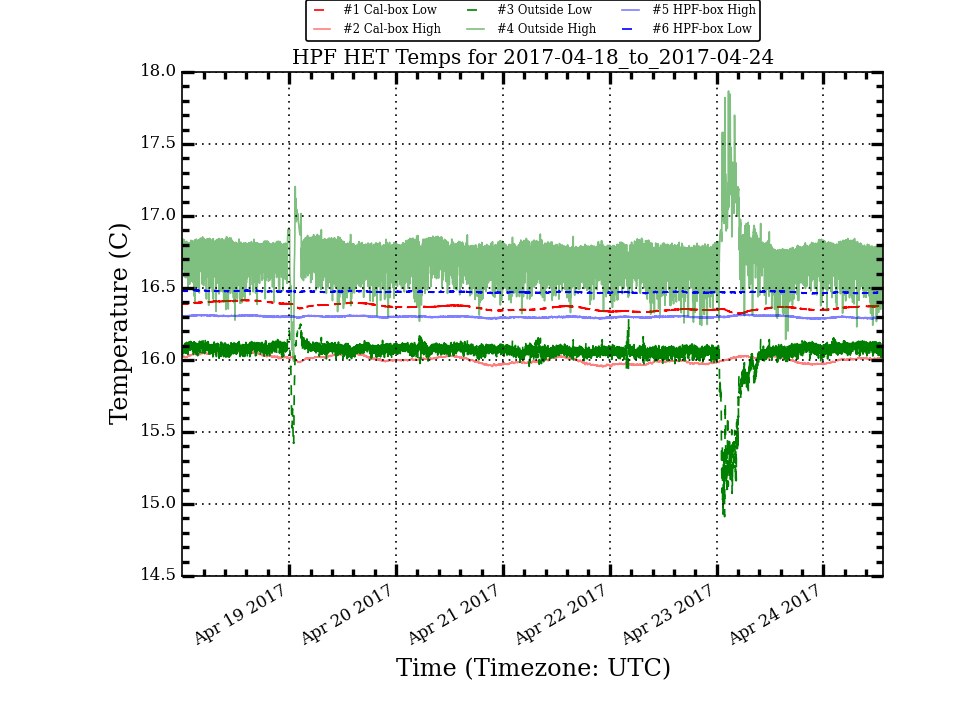
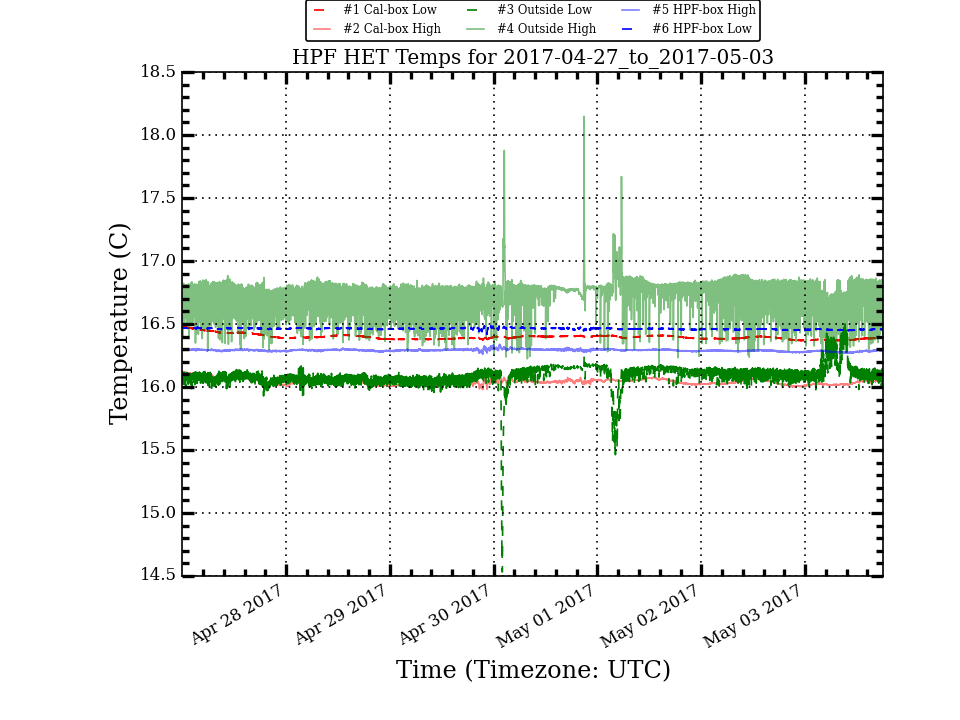
Update HPF Temp Plots

diff --git a/research/hpf_temps/plots/LakeShoreLogTotal_week_stats.html b/research/hpf_temps/plots/LakeShoreLogTotal_week_stats.html
@@ -10,56 +10,56 @@
  </TR>
  <TR>
   <TD>Cal_Low</TD>
-  <TD>16.367</TD>
-  <TD>0.022</TD>
-  <TD>16.367</TD>
-  <TD>16.416</TD>
-  <TD>16.322</TD>
-  <TD>0.094</TD>
+  <TD>16.397</TD>
+  <TD>0.019</TD>
+  <TD>16.394</TD>
+  <TD>16.479</TD>
+  <TD>16.369</TD>
+  <TD>0.110</TD>
  </TR>
  <TR>
   <TD>Cal_High</TD>
-  <TD>16.005</TD>
-  <TD>0.026</TD>
-  <TD>16.005</TD>
-  <TD>16.069</TD>
-  <TD>15.953</TD>
-  <TD>0.116</TD>
+  <TD>16.042</TD>
+  <TD>0.022</TD>
+  <TD>16.040</TD>
+  <TD>16.119</TD>
+  <TD>15.979</TD>
+  <TD>0.140</TD>
  </TR>
  <TR>
   <TD>Out_Low</TD>
-  <TD>16.047</TD>
-  <TD>0.135</TD>
-  <TD>16.072</TD>
-  <TD>16.291</TD>
-  <TD>14.912</TD>
-  <TD>1.379</TD>
+  <TD>16.093</TD>
+  <TD>0.097</TD>
+  <TD>16.095</TD>
+  <TD>16.506</TD>
+  <TD>14.532</TD>
+  <TD>1.974</TD>
  </TR>
  <TR>
   <TD>Out_High</TD>
-  <TD>16.721</TD>
-  <TD>0.134</TD>
-  <TD>16.731</TD>
-  <TD>17.868</TD>
-  <TD>15.990</TD>
-  <TD>1.878</TD>
+  <TD>16.732</TD>
+  <TD>0.116</TD>
+  <TD>16.763</TD>
+  <TD>18.148</TD>
+  <TD>16.128</TD>
+  <TD>2.020</TD>
  </TR>
  <TR>
   <TD>HPF_High</TD>
-  <TD>16.300</TD>
-  <TD>0.006</TD>
-  <TD>16.300</TD>
-  <TD>16.318</TD>
-  <TD>16.285</TD>
-  <TD>0.033</TD>
+  <TD>16.291</TD>
+  <TD>0.008</TD>
+  <TD>16.291</TD>
+  <TD>16.338</TD>
+  <TD>16.259</TD>
+  <TD>0.079</TD>
  </TR>
  <TR>
   <TD>HPF_Low</TD>
-  <TD>16.472</TD>
-  <TD>0.005</TD>
-  <TD>16.472</TD>
-  <TD>16.485</TD>
-  <TD>16.460</TD>
-  <TD>0.025</TD>
+  <TD>16.462</TD>
+  <TD>0.006</TD>
+  <TD>16.462</TD>
+  <TD>16.491</TD>
+  <TD>16.414</TD>
+  <TD>0.077</TD>
  </TR>
 </TABLE>

diff --git a/research/hpf_temps/plots/LakeShoreLogTotal_month_stats.html b/research/hpf_temps/plots/LakeShoreLogTotal_month_stats.html
@@ -10,56 +10,56 @@
  </TR>
  <TR>
   <TD>Cal_Low</TD>
-  <TD>16.403</TD>
-  <TD>0.027</TD>
-  <TD>16.409</TD>
-  <TD>16.459</TD>
+  <TD>16.407</TD>
+  <TD>0.050</TD>
+  <TD>16.405</TD>
+  <TD>16.769</TD>
   <TD>16.322</TD>
-  <TD>0.137</TD>
+  <TD>0.447</TD>
  </TR>
  <TR>
   <TD>Cal_High</TD>
+  <TD>16.053</TD>
+  <TD>0.081</TD>
   <TD>16.049</TD>
-  <TD>0.032</TD>
-  <TD>16.055</TD>
-  <TD>16.139</TD>
-  <TD>15.940</TD>
-  <TD>0.199</TD>
+  <TD>17.049</TD>
+  <TD>15.953</TD>
+  <TD>1.096</TD>
  </TR>
  <TR>
   <TD>Out_Low</TD>
   <TD>16.098</TD>
-  <TD>0.126</TD>
-  <TD>16.112</TD>
-  <TD>16.291</TD>
-  <TD>14.629</TD>
-  <TD>1.662</TD>
+  <TD>0.089</TD>
+  <TD>16.102</TD>
+  <TD>16.506</TD>
+  <TD>14.532</TD>
+  <TD>1.974</TD>
  </TR>
  <TR>
   <TD>Out_High</TD>
-  <TD>16.757</TD>
-  <TD>0.129</TD>
-  <TD>16.777</TD>
-  <TD>18.539</TD>
-  <TD>15.982</TD>
-  <TD>2.557</TD>
+  <TD>16.733</TD>
+  <TD>0.116</TD>
+  <TD>16.758</TD>
+  <TD>18.148</TD>
+  <TD>15.990</TD>
+  <TD>2.158</TD>
  </TR>
  <TR>
   <TD>HPF_High</TD>
-  <TD>16.312</TD>
-  <TD>0.017</TD>
-  <TD>16.308</TD>
-  <TD>16.381</TD>
-  <TD>16.267</TD>
-  <TD>0.114</TD>
+  <TD>16.301</TD>
+  <TD>0.010</TD>
+  <TD>16.301</TD>
+  <TD>16.364</TD>
+  <TD>16.259</TD>
+  <TD>0.105</TD>
  </TR>
  <TR>
   <TD>HPF_Low</TD>
-  <TD>16.486</TD>
-  <TD>0.017</TD>
-  <TD>16.481</TD>
-  <TD>16.548</TD>
-  <TD>16.416</TD>
-  <TD>0.132</TD>
+  <TD>16.473</TD>
+  <TD>0.009</TD>
+  <TD>16.475</TD>
+  <TD>16.516</TD>
+  <TD>16.414</TD>
+  <TD>0.102</TD>
  </TR>
 </TABLE>
